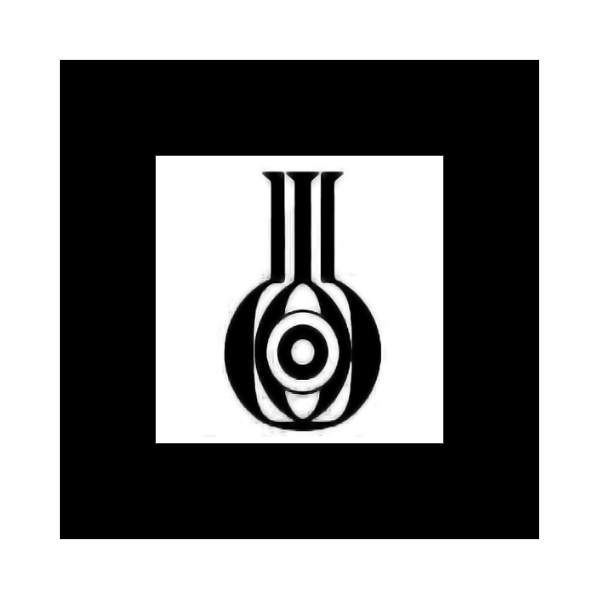
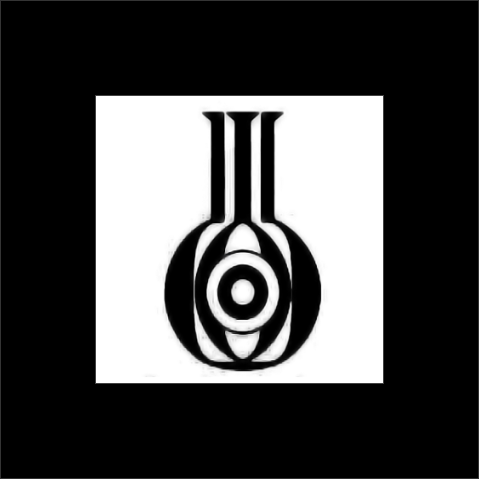
aadd marker overlay

diff --git a/index.html b/index.html
@@ -5,17 +5,19 @@
     <title>AR Demo</title>
     <script src="https://aframe.io/releases/1.0.4/aframe.min.js"></script>
     <script src="https://raw.githack.com/AR-js-org/AR.js/master/aframe/build/aframe-ar.js"></script>
+    <link rel="stylesheet" href="/style.css"/>
     <script src="gesture-detector.js"></script>
     <script src="gesture-handler.js"></script>
   </head>
 
-  <body>
+  <body style="display: flex; justify-content: center; align-items: center">
     <a-scene
       arjs
       embedded
       renderer="logarithmicDepthBuffer: true;"
       vr-mode-ui="enabled: false"
       gesture-detector
+      cursor="rayOrigin: mouse"
       id="scene"
     >
       <a-marker
@@ -37,5 +39,6 @@
       </a-marker>
       <a-entity camera></a-entity>
     </a-scene>
+    <div id="marker-overlay" />
   </body>
 </html>

diff --git a/gesture-handler.js b/gesture-handler.js
@@ -16,10 +16,12 @@ AFRAME.registerComponent("gesture-handler", {
     this.scaleFactor = 1;
 
     this.el.sceneEl.addEventListener("markerFound", (e) => {
+      document.getElementById("marker-overlay").hidden = true;
       this.isVisible = true;
     });
 
     this.el.sceneEl.addEventListener("markerLost", (e) => {
+      document.getElementById("marker-overlay").hidden = false;
       this.isVisible = false;
     });
   },

diff --git a/style.css b/style.css
@@ -1,0 +1,8 @@
+#marker-overlay {
+    position: absolute;
+    width: 300px;
+    height: 300px;
+    background: url(./pattern/pattern-alchemist.png) no-repeat center;
+    background-size: contain;
+    opacity: 0.5;
+}
